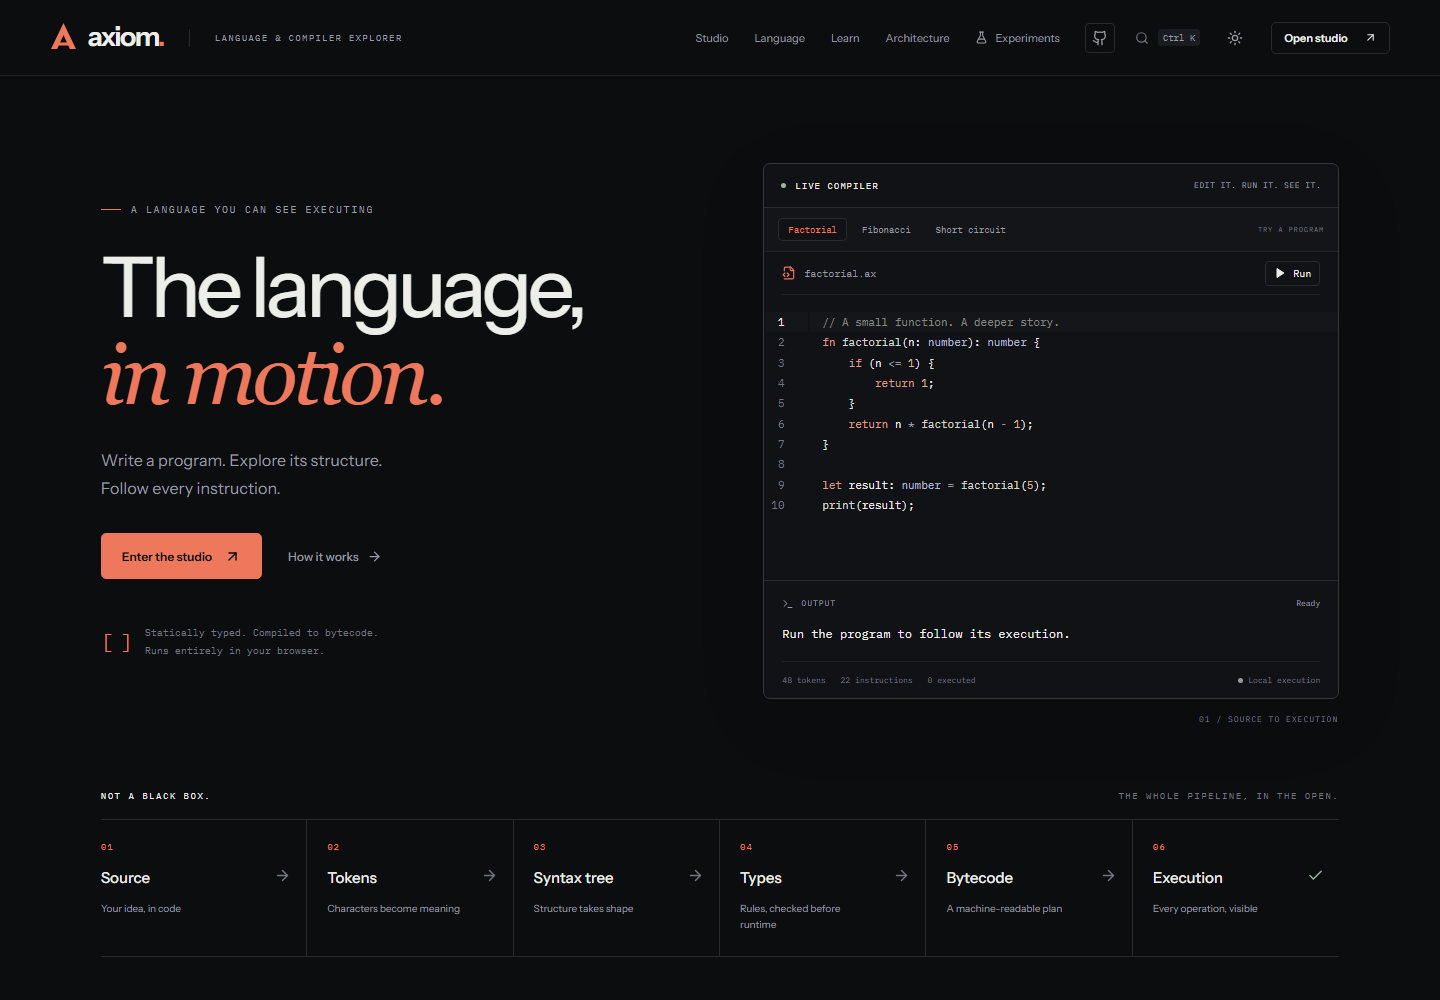
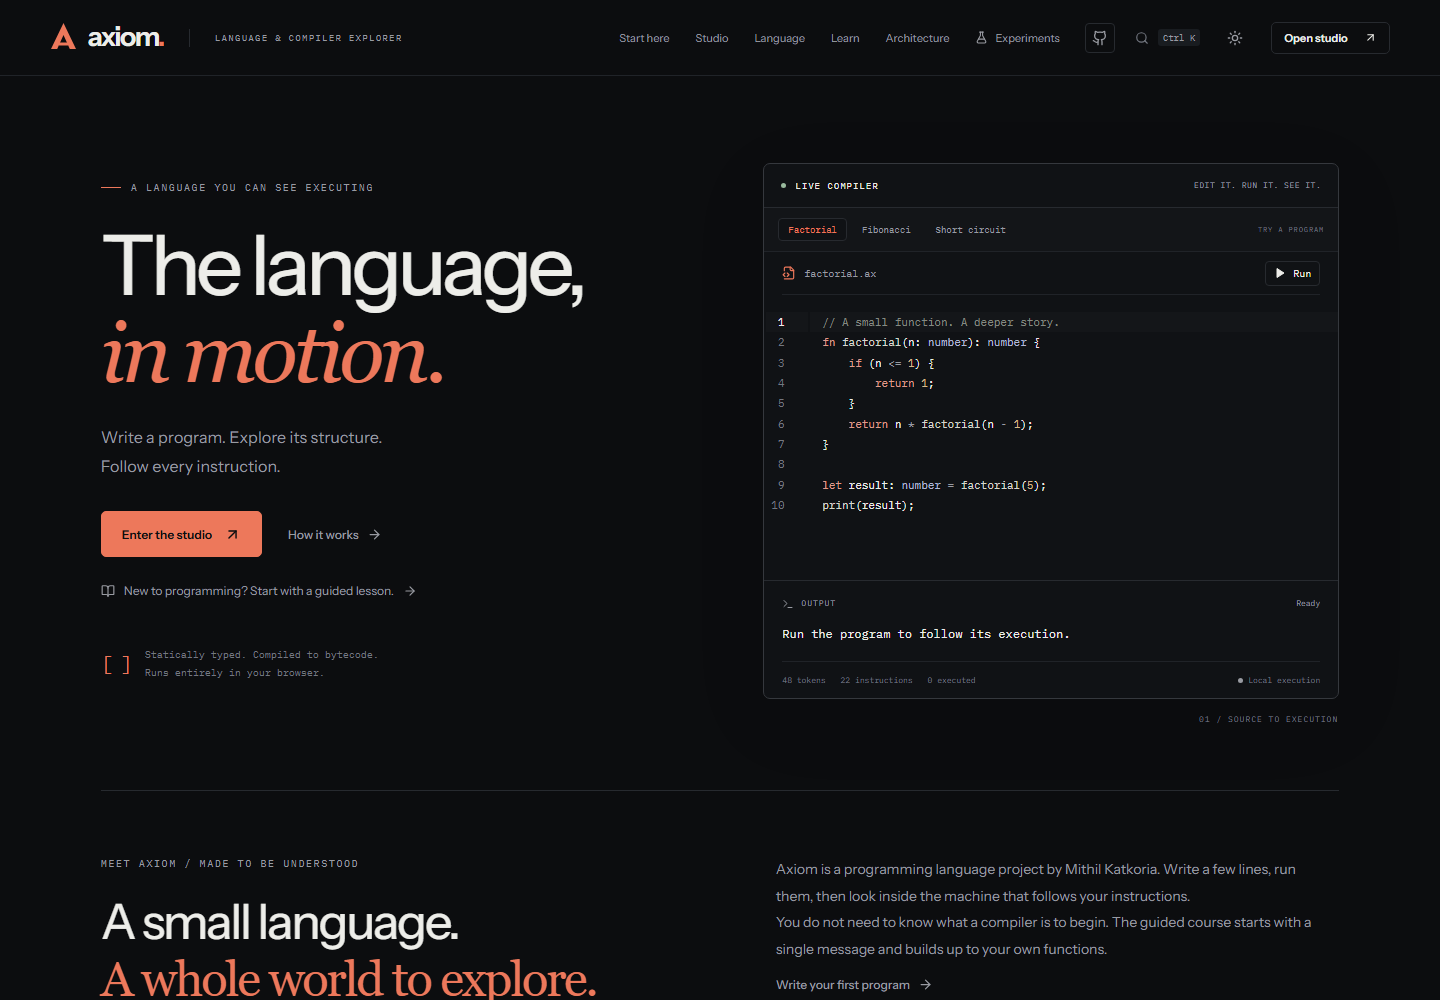
Isolate lesson editors and finish release verification support

diff --git a/tests/e2e/studio.spec.ts b/tests/e2e/studio.spec.ts
@@ -473,17 +473,24 @@ test("beginner course runs all six solutions with the real compiler", async ({
 }) => {
   await page.goto("/start");
   for (const lesson of lessons) {
-    await page.getByRole("button", { name: new RegExp(lesson.title) }).click();
-    await page
-      .getByRole("textbox", { name: "Axiom source code" })
-      .fill(lesson.solution);
-    await page
-      .getByRole("button", { name: "Run and check", exact: true })
-      .click();
-    await expect(page.locator(".course-feedback.is-passed")).toBeVisible();
-    await expect(page.locator(".course-output pre")).toHaveText(
-      lesson.expected.join("\n"),
-    );
+    await test.step(lesson.title, async () => {
+      await page
+        .getByRole("button", { name: new RegExp(lesson.title) })
+        .click();
+      await expect(
+        page.getByRole("heading", { name: lesson.title, exact: true }),
+      ).toBeVisible();
+      await page
+        .getByRole("textbox", { name: "Axiom source code" })
+        .fill(lesson.solution);
+      await page
+        .getByRole("button", { name: "Run and check", exact: true })
+        .click();
+      await expect(page.locator(".course-feedback.is-passed")).toBeVisible();
+      await expect(page.locator(".course-output pre")).toHaveText(
+        lesson.expected.join("\n"),
+      );
+    });
   }
   await expect(page.getByText("6 of 6 lessons completed")).toBeVisible();
 });

diff --git a/src/studio/Editor.tsx b/src/studio/Editor.tsx
@@ -202,6 +202,8 @@ export function Editor(props: EditorProps) {
                   "true",
                   "false",
                   "print",
+                  "str",
+                  "len",
                 ].map((label) => ({
                   label,
                   type: ["print", "len", "str"].includes(label)
@@ -291,7 +293,9 @@ export function Editor(props: EditorProps) {
             from: Math.min(d.span.start, v.state.doc.length),
             to: Math.min(d.span.end, v.state.doc.length),
             severity: "error",
-            message: `${d.code}: ${d.message}`,
+            message: [d.code + ": " + d.message, d.note]
+              .filter(Boolean)
+              .join("\n"),
           })),
         ),
       );

diff --git a/src/learning/StartCourse.tsx b/src/learning/StartCourse.tsx
@@ -173,6 +173,7 @@ export function StartCourse({
               fallback={<div className="empty-state">Loading your editor…</div>}
             >
               <Editor
+                key={lesson.id}
                 source={source}
                 onChange={change}
                 diagnostics={diagnostics}

diff --git a/docs/VERIFICATION.md b/docs/VERIFICATION.md
@@ -8,7 +8,7 @@ The language adds string concatenation, explicit str(value) conversion and Unico
 
 Production course screenshots are retained at 375, 768 and 1440 px. Mobile course and desktop homepage renders were visually inspected. Existing debugger, inspector, both-theme and compact-phone captures were refreshed. Browser tests assert no horizontal page overflow or console errors. Chromium is the tested browser; no new claim is made about Safari, Firefox or physical devices.
 
-Hosted CI and live release smoke results are recorded after publication. Earlier sections below are dated historical evidence.
+The hosted smoke check passes at https://axiom-explorer.vercel.app: real Rust execution, starter lesson, studio handoff, string helpers, all public routes, mobile overflow, static course and metadata. The first hosted suite exposed a lesson-switching timing failure; each lesson now mounts its own editor and the complete beginner suite is repeated locally before the next hosted run. GitHub keeps failure traces for diagnosis. Earlier sections below are dated historical evidence.
 
 ## Rust/WebAssembly migration, 21 October 2026
 
